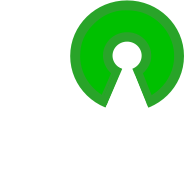
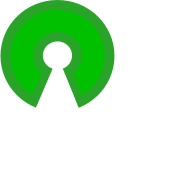
Make images responsive. Align images to right of text.

diff --git a/csfieldguide/templates/general/index.html b/csfieldguide/templates/general/index.html
@@ -43,35 +43,51 @@
   <div class="container clearfix">
     <div class="mb-5 col-md-8">
       <h4 class="homepage-section-heading">{% trans "Chapters" %}</h4>
-      <div class="d-flex flex-row justify-content-between">
-        <p class="mr-5">We have plenty of interactives throughout CSFG, to teach many different computer science concepts. These should work with any modern browser updated in the last year, but we are continually expanding the compatibility of these.</p>
-        <img src="{% static 'img/chapters/homepage-chapter-icon.png' %}">
+      <div class="d-flex flex-row">
+        <div class="col-8 d-inline pl-0">
+          <p class="mr-2">We have plenty of interactives throughout CSFG, to teach many different computer science concepts. These should work with any modern browser updated in the last year, but we are continually expanding the compatibility of these.</p>
+        </div>
+        <div class="col-4">
+          <img src="{% static 'img/chapters/homepage-chapter-icon.png' %}" class="img-fluid">
+        </div>
       </div>
       <a href="{% url 'chapters:index' %}" class="btn btn-outline orange" role="button">{% trans "View chapters" %}</a>
     </div>
 
     <div class="mb-5 col-md-8 float-right">
       <h4 class="homepage-section-heading">{% trans "Interactives" %}</h4>
-      <div class="d-flex flex-row justify-content-between">
-        <p>We have plenty of interactives throughout CSFG, to teach many different computer science concepts. These should work with any modern browser updated in the last year, but we are continually expanding the compatibility of these.</p>
-        <img src="{% static 'img/chapters/homepage-interactive-icon.png' %}">
+      <div class="d-flex flex-row">
+        <div class="col-8 d-inline pl-0">
+          <p>We have plenty of interactives throughout CSFG, to teach many different computer science concepts. These should work with any modern browser updated in the last year, but we are continually expanding the compatibility of these.</p>
+        </div>
+        <div class="col-4">
+          <img src="{% static 'img/chapters/homepage-interactive-icon.png' %}" class="img-fluid">
+        </div>
       </div>
       <a href="{% url 'interactives:index' %}" class="btn btn-outline orange" role="button">{% trans "View interactives" %}</a>
     </div>
 
     <div class="mb-5 col-md-8 float-left">
       <h4 class="homepage-section-heading">{% trans "Teacher's guide" %}</h4>
-      <p>If you are a teacher (or involved in education), you can join the <a href="https://groups.google.com/forum/?fromgroups#!forum/csfg-teachers">CSFG teachers group</a> to receive updates.
-        You can access the teacher's version on the guide by using the button below or the link in the page footer.</p>
+      <div class="d-flex flex-row">
+        <div class="col-8 d-inline pl-0">
+          <p>If you are a teacher (or involved in education), you can join the <a href="https://groups.google.com/forum/?fromgroups#!forum/csfg-teachers">CSFG teachers group</a> to receive updates. You can access the teacher's version on the guide by using the button below or the link in the page footer.</p>
+        </div>
+        <div class="col-4">
+          <img src="{% static 'img/chapters/homepage-interactive-icon.png' %}" class="img-fluid">
+        </div>
+      </div>
       <a href="{% url 'general:teacher_mode_login' %}?next={{ request.path }}" class="btn btn-outline orange" role="button">{% trans "Switch to teacher mode" %}</a>
     </div>
 
     <div class="mb-5 col-md-8 float-right">
-      <div class="d-flex flex-row justify-content-between">
-        <img class="mr-5" src="{% static 'img/chapters/homepage-open-source-icon.png' %}">
-        <div>
-          <h4 class="homepage-section-heading">{% trans "Open source" %}</h4>
+      <h4 class="homepage-section-heading">{% trans "Open source" %}</h4>
+      <div class="d-flex flex-row">
+        <div class="col-8 d-inline pl-0">
           <p>This project is open source and <a href="https://github.com/uccser/cs-field-guide">available on GitHub</a>, and is maintained by a small team of developers.</p>
+        </div>
+        <div class="col-4">
+          <img src="{% static 'img/chapters/homepage-open-source-icon.png' %}" class="img-fluid">
         </div>
       </div>
     </div>

diff --git a/csfieldguide/static/scss/_homepage.scss b/csfieldguide/static/scss/_homepage.scss
@@ -9,9 +9,9 @@
     color: $white;
     font-size: 3.5rem;
   }
-  // p {
-  //   color: $gray-lighter;
-  // }
+  p {
+    color: #fff;
+  }
 }
 
 .jumbotron.sub-heading {
